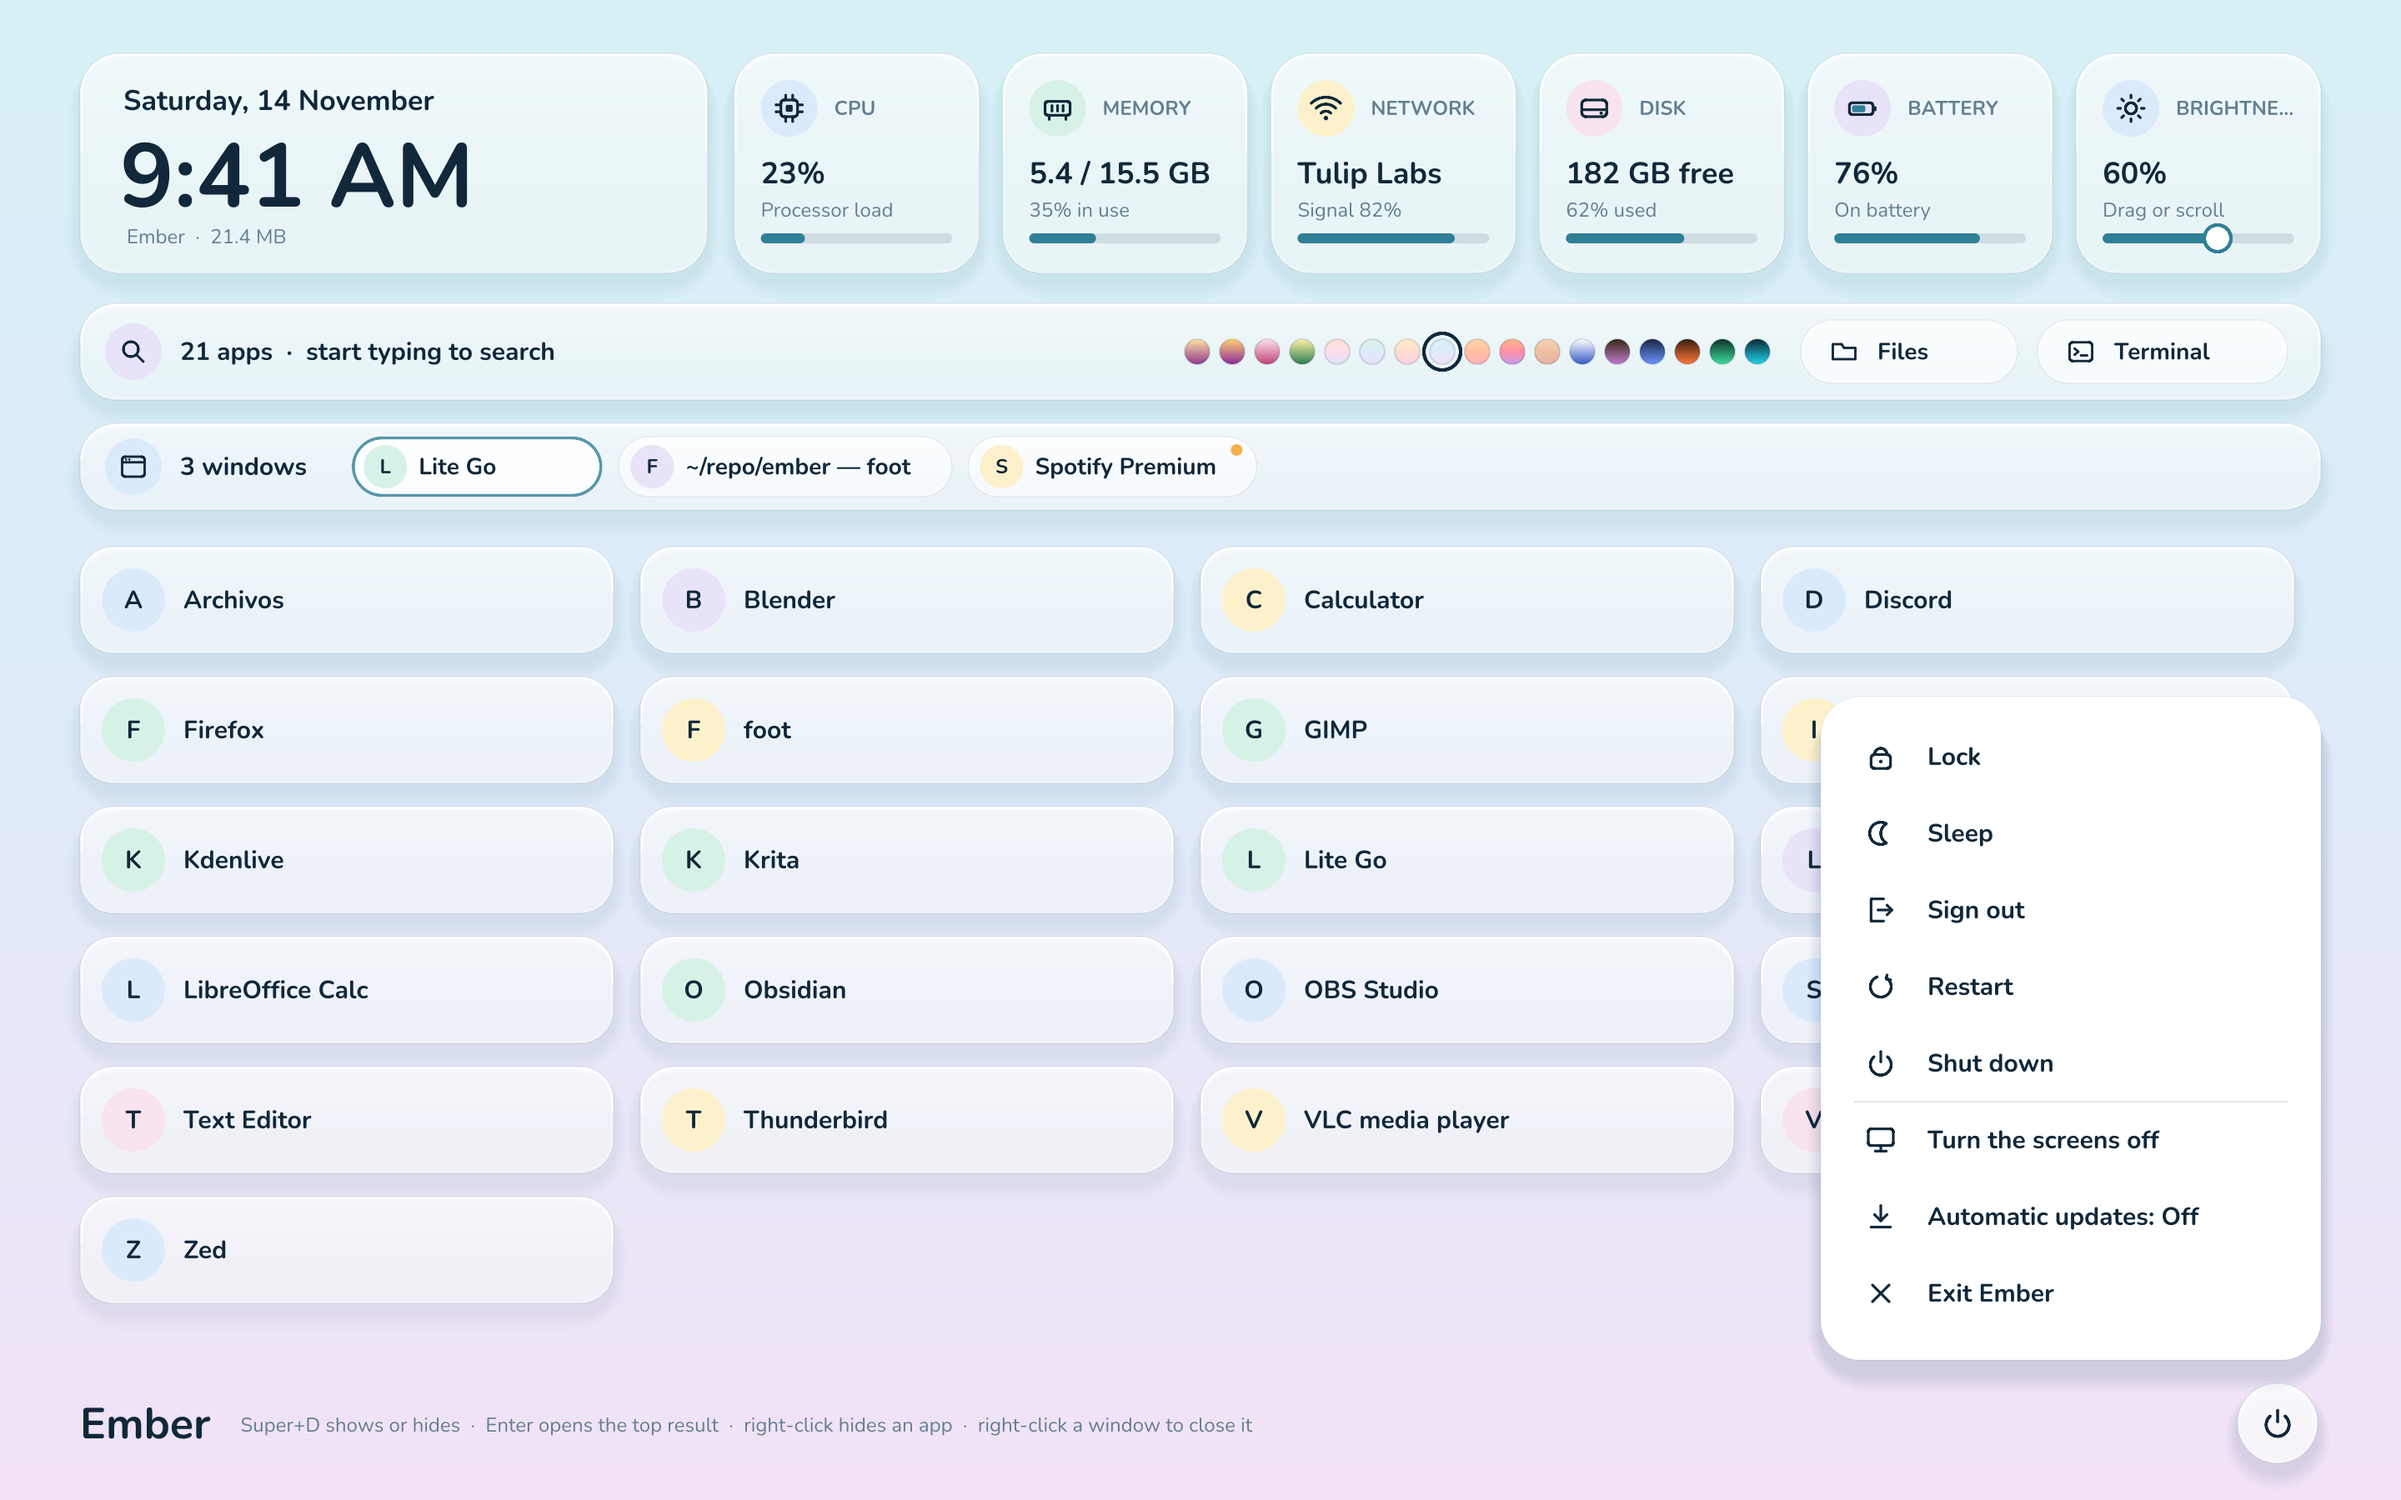
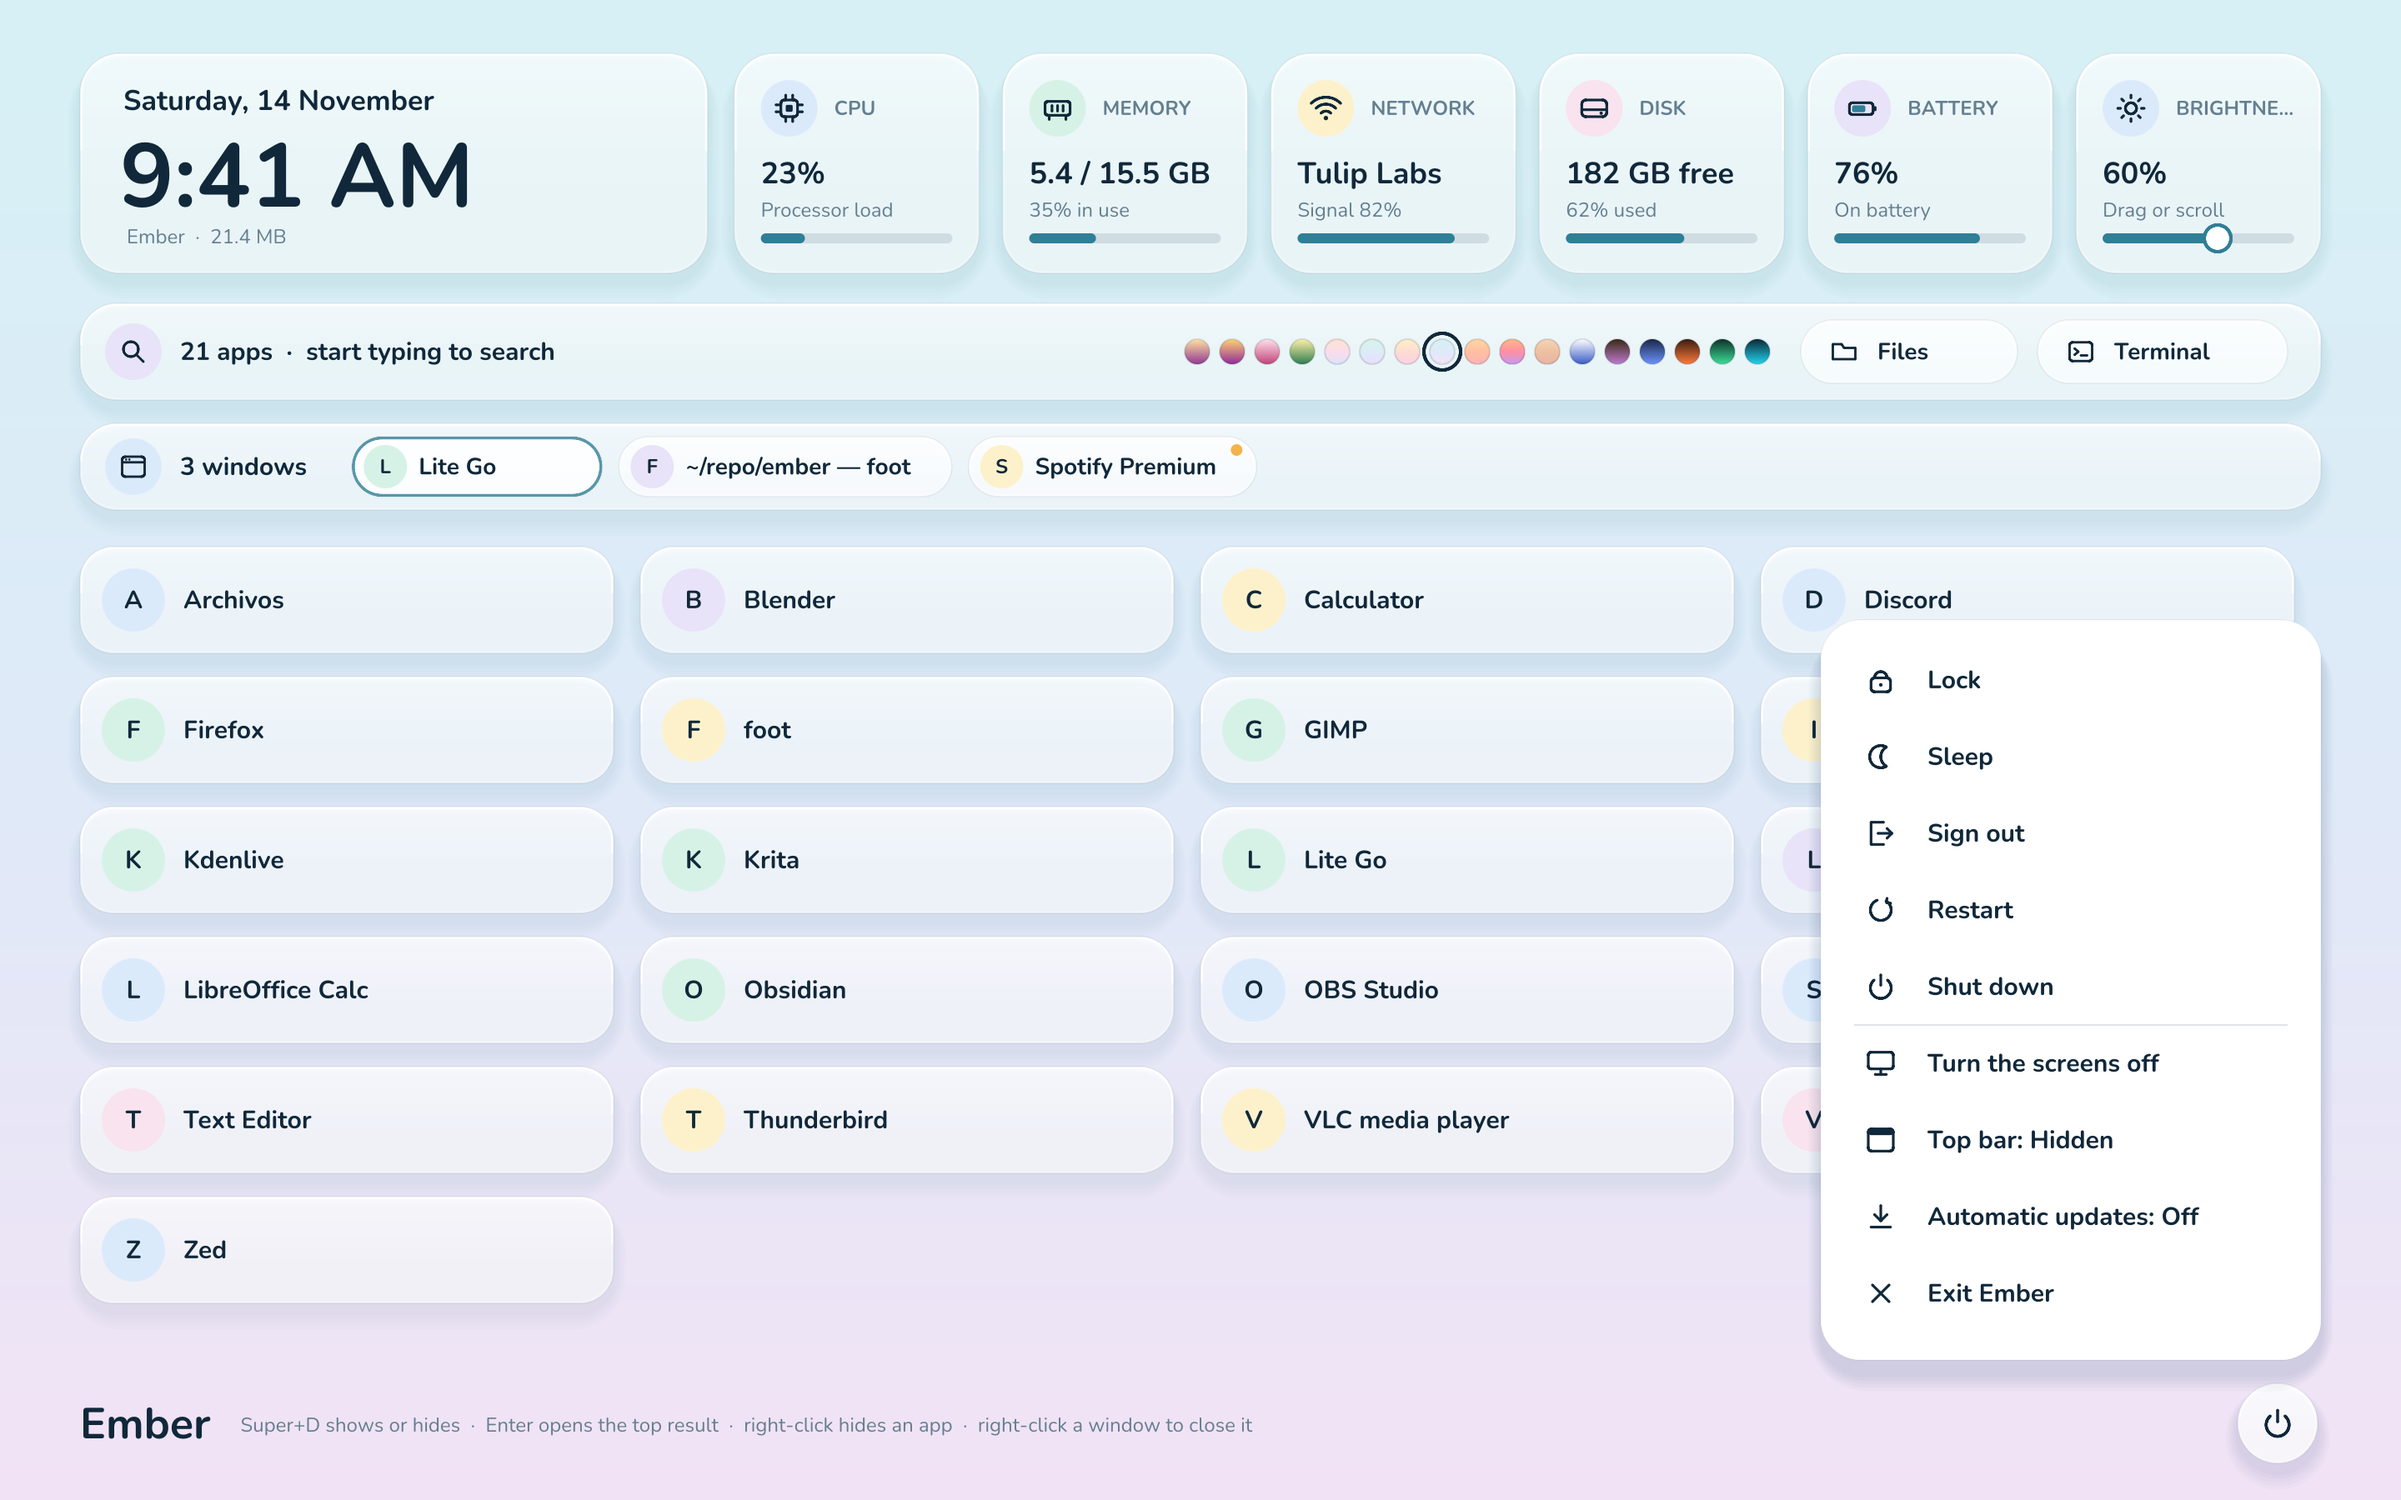
Ember 1.0.3: the top bar is hidden; Power, then Top bar, brings it back
Claude-Session: https://claude.ai/code/session_01MEhVsAAkMkEJaBw27qK1mL

diff --git a/linux/cmd/ember/niri_setup.go b/linux/cmd/ember/niri_setup.go
@@ -109,3 +109,67 @@ func removeOldBar(c *niri.Client) {
 	}
 	startDetached([]string{"waybar"})
 }
+
+// The top bar niri starts (Waybar). Ember hides it: Ember's own dashboard
+// has the clock, battery, network and the rest. The power panel's "Top bar"
+// row shows it again.
+
+// autoHideBar hides the top bar the first time Ember 1.0.3 or later runs
+// inside niri.
+func (r *resident) autoHideBar() {
+	if r.niri == nil {
+		return
+	}
+	marker := filepath.Join(r.conf, "bar-hidden-once")
+	if _, err := os.Stat(marker); err == nil {
+		return
+	}
+	os.MkdirAll(r.conf, 0o755)
+	os.WriteFile(marker, nil, 0o644)
+	if err := setTopBar(false, r.niri); err == nil {
+		r.startNote = "The top bar is hidden: Power, then Top bar, brings it back"
+	}
+}
+
+// setTopBar shows or hides Waybar now and at the next sign-in.
+func setTopBar(show bool, c *niri.Client) error {
+	dir := niri.ConfigDir()
+	systemd := func(args ...string) error {
+		return exec.Command("systemctl", append([]string{"--user"}, args...)...).Run()
+	}
+	if !show {
+		if _, err := niri.HideBar(dir); err != nil {
+			return err
+		}
+		// some setups start it as a systemd user service instead
+		if systemd("is-enabled", "--quiet", "waybar.service") == nil {
+			systemd("disable", "--now", "waybar.service")
+			cfg, _ := os.UserConfigDir()
+			os.WriteFile(filepath.Join(cfg, "ember", "waybar-service-was-enabled"), nil, 0o644)
+		}
+		exec.Command("pkill", "-x", "waybar").Run()
+		return nil
+	}
+	if _, err := niri.ShowBar(dir); err != nil {
+		return err
+	}
+	cfg, _ := os.UserConfigDir()
+	flag := filepath.Join(cfg, "ember", "waybar-service-was-enabled")
+	if _, err := os.Stat(flag); err == nil {
+		os.Remove(flag)
+		return systemd("enable", "--now", "waybar.service")
+	}
+	if exec.Command("pgrep", "-x", "waybar").Run() == nil {
+		return nil
+	}
+	if c != nil && c.Spawn([]string{"waybar"}) == nil {
+		return nil
+	}
+	return startDetached([]string{"waybar"})
+}
+
+// SetTopBar is the power panel's "Top bar" row.
+func (r *resident) SetTopBar(show bool) error { return setTopBar(show, r.niri) }
+
+// TopBarShown reports whether niri starts the top bar.
+func topBarShown() bool { return !niri.BarHidden(niri.ConfigDir()) }

diff --git a/linux/niri/setup.go b/linux/niri/setup.go
@@ -6,6 +6,7 @@ import (
 	"errors"
 	"os"
 	"path/filepath"
+	"strings"
 
 	"ember/ui"
 )
@@ -101,4 +102,60 @@ func writeIfChanged(p string, b []byte) error {
 		return err
 	}
 	return os.Rename(tmp, p)
+}
+
+// The top bar niri starts (Waybar, from niri's default config). Ember can
+// hide it: the line that starts it is turned into a comment marked as
+// Ember's, so ShowBar can put it back exactly.
+const barMark = "// hidden by Ember: "
+
+func isBarLine(l string) bool {
+	t := strings.TrimSpace(l)
+	return (strings.HasPrefix(t, "spawn-at-startup") || strings.HasPrefix(t, "spawn-sh-at-startup")) && strings.Contains(t, "waybar")
+}
+
+// HideBar comments out the lines of config.kdl that start Waybar. It reports
+// whether it changed anything.
+func HideBar(dir string) (bool, error) {
+	return editBar(dir, true)
+}
+
+// ShowBar puts back the lines HideBar commented out.
+func ShowBar(dir string) (bool, error) {
+	return editBar(dir, false)
+}
+
+// BarHidden reports whether config.kdl has a Waybar line hidden by Ember.
+func BarHidden(dir string) bool {
+	b, err := os.ReadFile(filepath.Join(dir, "config.kdl"))
+	return err == nil && strings.Contains(string(b), barMark)
+}
+
+func editBar(dir string, hide bool) (bool, error) {
+	p := filepath.Join(dir, "config.kdl")
+	b, err := os.ReadFile(p)
+	if err != nil {
+		return false, ErrNoConfig
+	}
+	lines := strings.Split(string(b), "\n")
+	changed := false
+	for i, l := range lines {
+		ind := l[:len(l)-len(strings.TrimLeft(l, " \t"))]
+		rest := strings.TrimLeft(l, " \t")
+		switch {
+		case hide && isBarLine(rest):
+			lines[i] = ind + barMark + rest
+			changed = true
+		case !hide && strings.HasPrefix(rest, barMark):
+			lines[i] = ind + strings.TrimPrefix(rest, barMark)
+			changed = true
+		}
+	}
+	if !changed {
+		return false, nil
+	}
+	if _, err := os.Stat(p + ".before-ember"); err != nil {
+		os.WriteFile(p+".before-ember", b, 0o644)
+	}
+	return true, writeIfChanged(p, []byte(strings.Join(lines, "\n")))
 }

diff --git a/linux/shell/screen.go b/linux/shell/screen.go
@@ -31,6 +31,8 @@ type Host interface {
 	// into the new version).
 	SetUpdates(on bool)
 	UpdateNow()
+	// SetTopBar shows or hides the top bar niri starts (Waybar).
+	SetTopBar(show bool) error
 	// SetBrightness sets the screen's backlight, 1..100 percent.
 	SetBrightness(percent int)
 }
@@ -50,6 +52,7 @@ var Power = []PowerItem{
 	{GRestart, "Restart", "restart"},
 	{GPower, "Shut down", "poweroff"},
 	{GScreenOff, "Turn the screens off", "screensoff"},
+	{GTopBar, "Top bar", "topbar"},
 	{GDownload, "Automatic updates", "updates"},
 	{GExit, "Exit Ember", "exit"},
 }
@@ -70,6 +73,7 @@ type Screen struct {
 	// Updates: whether they are on, and a notice with its button (empty
 	// when there is nothing to say)
 	UpdatesOn    bool
+	TopBarShown  bool // niri starts its top bar (Waybar)
 	Notice       string
 	NoticeAction string
 
@@ -927,6 +931,12 @@ func (s *Screen) powerPanel(g ui.Gfx, l layout) {
 				label = "Automatic updates: On"
 			}
 		}
+		if it.ID == "topbar" {
+			label = "Top bar: Hidden"
+			if s.TopBarShown {
+				label = "Top bar: Shown"
+			}
+		}
 		ui.TextFit(g, label, r.X+54, ui.Mid(g, r.Y, r.H, f), f, th.Ink, r.W-62)
 		if i == powerSep-1 {
 			g.FillRect(ui.Rect{X: p.X + 20, Y: r.B() + 1.5, W: p.W - 40, H: 1}, th.Body.Alpha(0.16))
@@ -935,6 +945,14 @@ func (s *Screen) powerPanel(g ui.Gfx, l layout) {
 			if it.ID == "updates" {
 				s.UpdatesOn = !s.UpdatesOn
 				s.Host.SetUpdates(s.UpdatesOn)
+				continue
+			}
+			if it.ID == "topbar" {
+				if err := s.Host.SetTopBar(!s.TopBarShown); err != nil {
+					s.Toast("The top bar could not change: " + err.Error())
+				} else {
+					s.TopBarShown = !s.TopBarShown
+				}
 				continue
 			}
 			s.panel = false

diff --git a/linux/shell/screen_test.go b/linux/shell/screen_test.go
@@ -26,6 +26,7 @@ type fakeHost struct {
 	updates   bool
 	updateNow int
 	bright    []int
+	topbar    []bool
 }
 
 func (h *fakeHost) Launch(a apps.App) error {
@@ -45,6 +46,7 @@ func (h *fakeHost) SaveTheme(id string)         { h.theme = id }
 func (h *fakeHost) SetUpdates(on bool)          { h.updates = on }
 func (h *fakeHost) UpdateNow()                  { h.updateNow++ }
 func (h *fakeHost) SetBrightness(p int)         { h.bright = append(h.bright, p) }
+func (h *fakeHost) SetTopBar(show bool) error   { h.topbar = append(h.topbar, show); return nil }
 
 var names = []string{"Archivos", "Blender", "Calculator", "Discord", "Firefox", "foot", "GIMP", "Inkscape",
 	"Kdenlive", "Krita", "Lite Go", "LibreOffice Writer", "LibreOffice Calc", "Obsidian", "OBS Studio",
@@ -282,5 +284,21 @@ func TestBrightness(t *testing.T) {
 	s.SetStats(sysinfo.Stats{Brightness: -1, Battery: -1})
 	if _, ok := s.brightRect(s.layout(1440, 900)); ok {
 		t.Fatal("a brightness card without a backlight")
+	}
+}
+
+func TestTopBarRow(t *testing.T) {
+	s, h := sample(t)
+	s.TopBarShown = true
+	l := s.layout(1440, 900)
+	click(t, s, l.power.CX(), l.power.CY(), 1440, 900)
+	for i, it := range Power {
+		if it.ID == "topbar" {
+			r := l.powerRow(i)
+			click(t, s, r.CX(), r.CY(), 1440, 900)
+		}
+	}
+	if s.TopBarShown || len(h.topbar) != 1 || h.topbar[0] {
+		t.Fatalf("top bar row: shown=%v calls=%v", s.TopBarShown, h.topbar)
 	}
 }

diff --git a/linux/cmd/ember/main.go b/linux/cmd/ember/main.go
@@ -30,7 +30,7 @@ import (
 	"ember/sysinfo"
 )
 
-const version = "1.0.2"
+const version = "1.0.3"
 
 func main() {
 	toggle := flag.Bool("toggle", false, "show Ember, or hide it when it is on screen")
@@ -41,7 +41,19 @@ func main() {
 	setupNiri := flag.Bool("setup-niri", false, "add Ember to niri's settings (Super+D, start at sign-in) and exit")
 	removeNiri := flag.Bool("remove-niri", false, "take Ember out of niri's settings and exit")
 	power := flag.Bool("power", false, "show Ember with the power panel open")
+	hideBar := flag.Bool("hide-bar", false, "hide the top bar niri starts (Waybar) and exit")
+	showBar := flag.Bool("show-bar", false, "show the top bar niri starts (Waybar) again and exit")
 	flag.Parse()
+	if *hideBar || *showBar {
+		if err := setTopBar(*showBar, niri.FromEnv()); err != nil {
+			fmt.Fprintln(os.Stderr, "ember:", err)
+			os.Exit(1)
+		}
+		cfg, _ := os.UserConfigDir()
+		os.MkdirAll(filepath.Join(cfg, "ember"), 0o755)
+		os.WriteFile(filepath.Join(cfg, "ember", "bar-hidden-once"), nil, 0o644) // a choice made by hand stays
+		return
+	}
 	if *setupNiri || *removeNiri {
 		os.Exit(niriSetupCmd(*removeNiri))
 	}
@@ -147,6 +159,7 @@ func newResident() *resident {
 	r.loadSettings()
 	r.autoSetupNiri()
 	removeOldBar(r.niri) // the Ember bar of 1.0.1 is gone: Waybar gets its own files back
+	r.autoHideBar()
 	r.niriColors()
 	r.rescan()
 	go r.updateLoop()

diff --git a/linux/niri/theme_test.go b/linux/niri/theme_test.go
@@ -58,3 +58,27 @@ func TestSetup(t *testing.T) {
 		t.Fatalf("still included: %q", b)
 	}
 }
+
+func TestBar(t *testing.T) {
+	dir := t.TempDir()
+	cfg := "input {\n}\n\nspawn-at-startup \"waybar\"\n    spawn-sh-at-startup \"waybar -c x\"\nspawn-at-startup \"mako\"\n"
+	os.WriteFile(filepath.Join(dir, "config.kdl"), []byte(cfg), 0o644)
+	if ok, err := HideBar(dir); !ok || err != nil {
+		t.Fatal(ok, err)
+	}
+	b, _ := os.ReadFile(filepath.Join(dir, "config.kdl"))
+	if !strings.Contains(string(b), "// hidden by Ember: spawn-at-startup \"waybar\"") || !strings.Contains(string(b), "    // hidden by Ember: spawn-sh-at-startup") || !strings.Contains(string(b), "\nspawn-at-startup \"mako\"") {
+		t.Fatalf("hidden: %q", b)
+	}
+	if !BarHidden(dir) {
+		t.Fatal("not reported hidden")
+	}
+	if ok, _ := HideBar(dir); ok {
+		t.Fatal("hid twice")
+	}
+	ShowBar(dir)
+	b, _ = os.ReadFile(filepath.Join(dir, "config.kdl"))
+	if string(b) != cfg {
+		t.Fatalf("not restored: %q", b)
+	}
+}

diff --git a/linux/shell/glyph.go b/linux/shell/glyph.go
@@ -28,6 +28,7 @@ const (
 	GScreenOff
 	GDownload
 	GSun
+	GTopBar
 )
 
 // DrawGlyph draws g centered on (cx, cy) in a box of size n.
@@ -134,6 +135,9 @@ func DrawGlyph(g ui.Gfx, k Glyph, cx, cy, n float32, c ui.Color) {
 		line(3.5, 8.5, 20.5, 8.5)
 		dot(6.2, 6.3, 0.9)
 		dot(8.8, 6.3, 0.9)
+	case GTopBar:
+		box(3, 4, 18, 16, 2.5)
+		fillBox(3, 4, 18, 4.5, 2)
 	case GSun:
 		ui.StrokeOval(g, ui.Rect{X: X(8), Y: Y(8), W: 8 * s, H: 8 * s}, w, c)
 		for _, d := range [][4]float32{{12, 2.5, 12, 4.5}, {12, 19.5, 12, 21.5}, {2.5, 12, 4.5, 12}, {19.5, 12, 21.5, 12},

diff --git a/linux/cmd/ember/window.go b/linux/cmd/ember/window.go
@@ -98,6 +98,7 @@ func (w *window) loop() error {
 	s.SetTheme(r.theme)
 	r.mu.Unlock()
 	s.Niri = r.niri != nil
+	s.TopBarShown = topBarShown()
 	s.SetStats(r.stats.Fast())
 	r.stats.Slow()
 	wins := func() {

diff --git a/README.md b/README.md
@@ -20,7 +20,8 @@ Ember replaces the desktop you sign in to with one screen:
 - **Hide apps.** Right-click an app to hide it. Type `hidden` to see hidden apps; right-click one to bring it back.
 - **Open windows** (Linux). Every window niri manages, in a row. Click one to go to it, or right-click it to close it.
 - **Themes.** Seventeen palettes. Light: Lagoon (the default), Crocus, Tulip, Sakura, Meadow, Peach Sky, Mint Lilac, Sorbet and Classic. Warm and strong: Ember Glow, Sunset and Terracotta. Night: Night, Midnight, Ember Night, Aurora and Abyss. Click a dot in the search bar to switch; Ember keeps your choice, and niri's colors follow it.
-- **Power panel.** Lock, sleep, sign out, restart, shut down, turn the screens off, automatic updates, exit Ember.
+- **Power panel.** Lock, sleep, sign out, restart, shut down, turn the screens off, the top bar, automatic updates, exit Ember.
+- **No top bar.** Ember's dashboard has the clock, battery and network, so Ember hides the bar niri starts (Waybar) the first time it runs. **Power → Top bar** brings it back (or `ember --show-bar`; `ember --hide-bar` hides it).
 
 | | |
 |---|---|

diff --git a/packaging/release-notes.md b/packaging/release-notes.md
@@ -1,5 +1,9 @@
 Ember: a calm, full-screen home for your desktop. A dashboard, your apps and your open windows on one pastel screen.
 
+## New in 1.0.3
+
+- Ember hides the top bar niri starts (Waybar) the first time it runs; Power, then Top bar, brings it back. The line in niri's config.kdl that starts it becomes a comment marked as Ember's (the old file is config.kdl.before-ember).
+
 ## New in 1.0.2
 
 - The Ember bar is gone: Ember no longer changes Waybar, the bar at the top of niri. If 1.0.1 had restyled it, 1.0.2 puts Waybar's own files back by itself.
